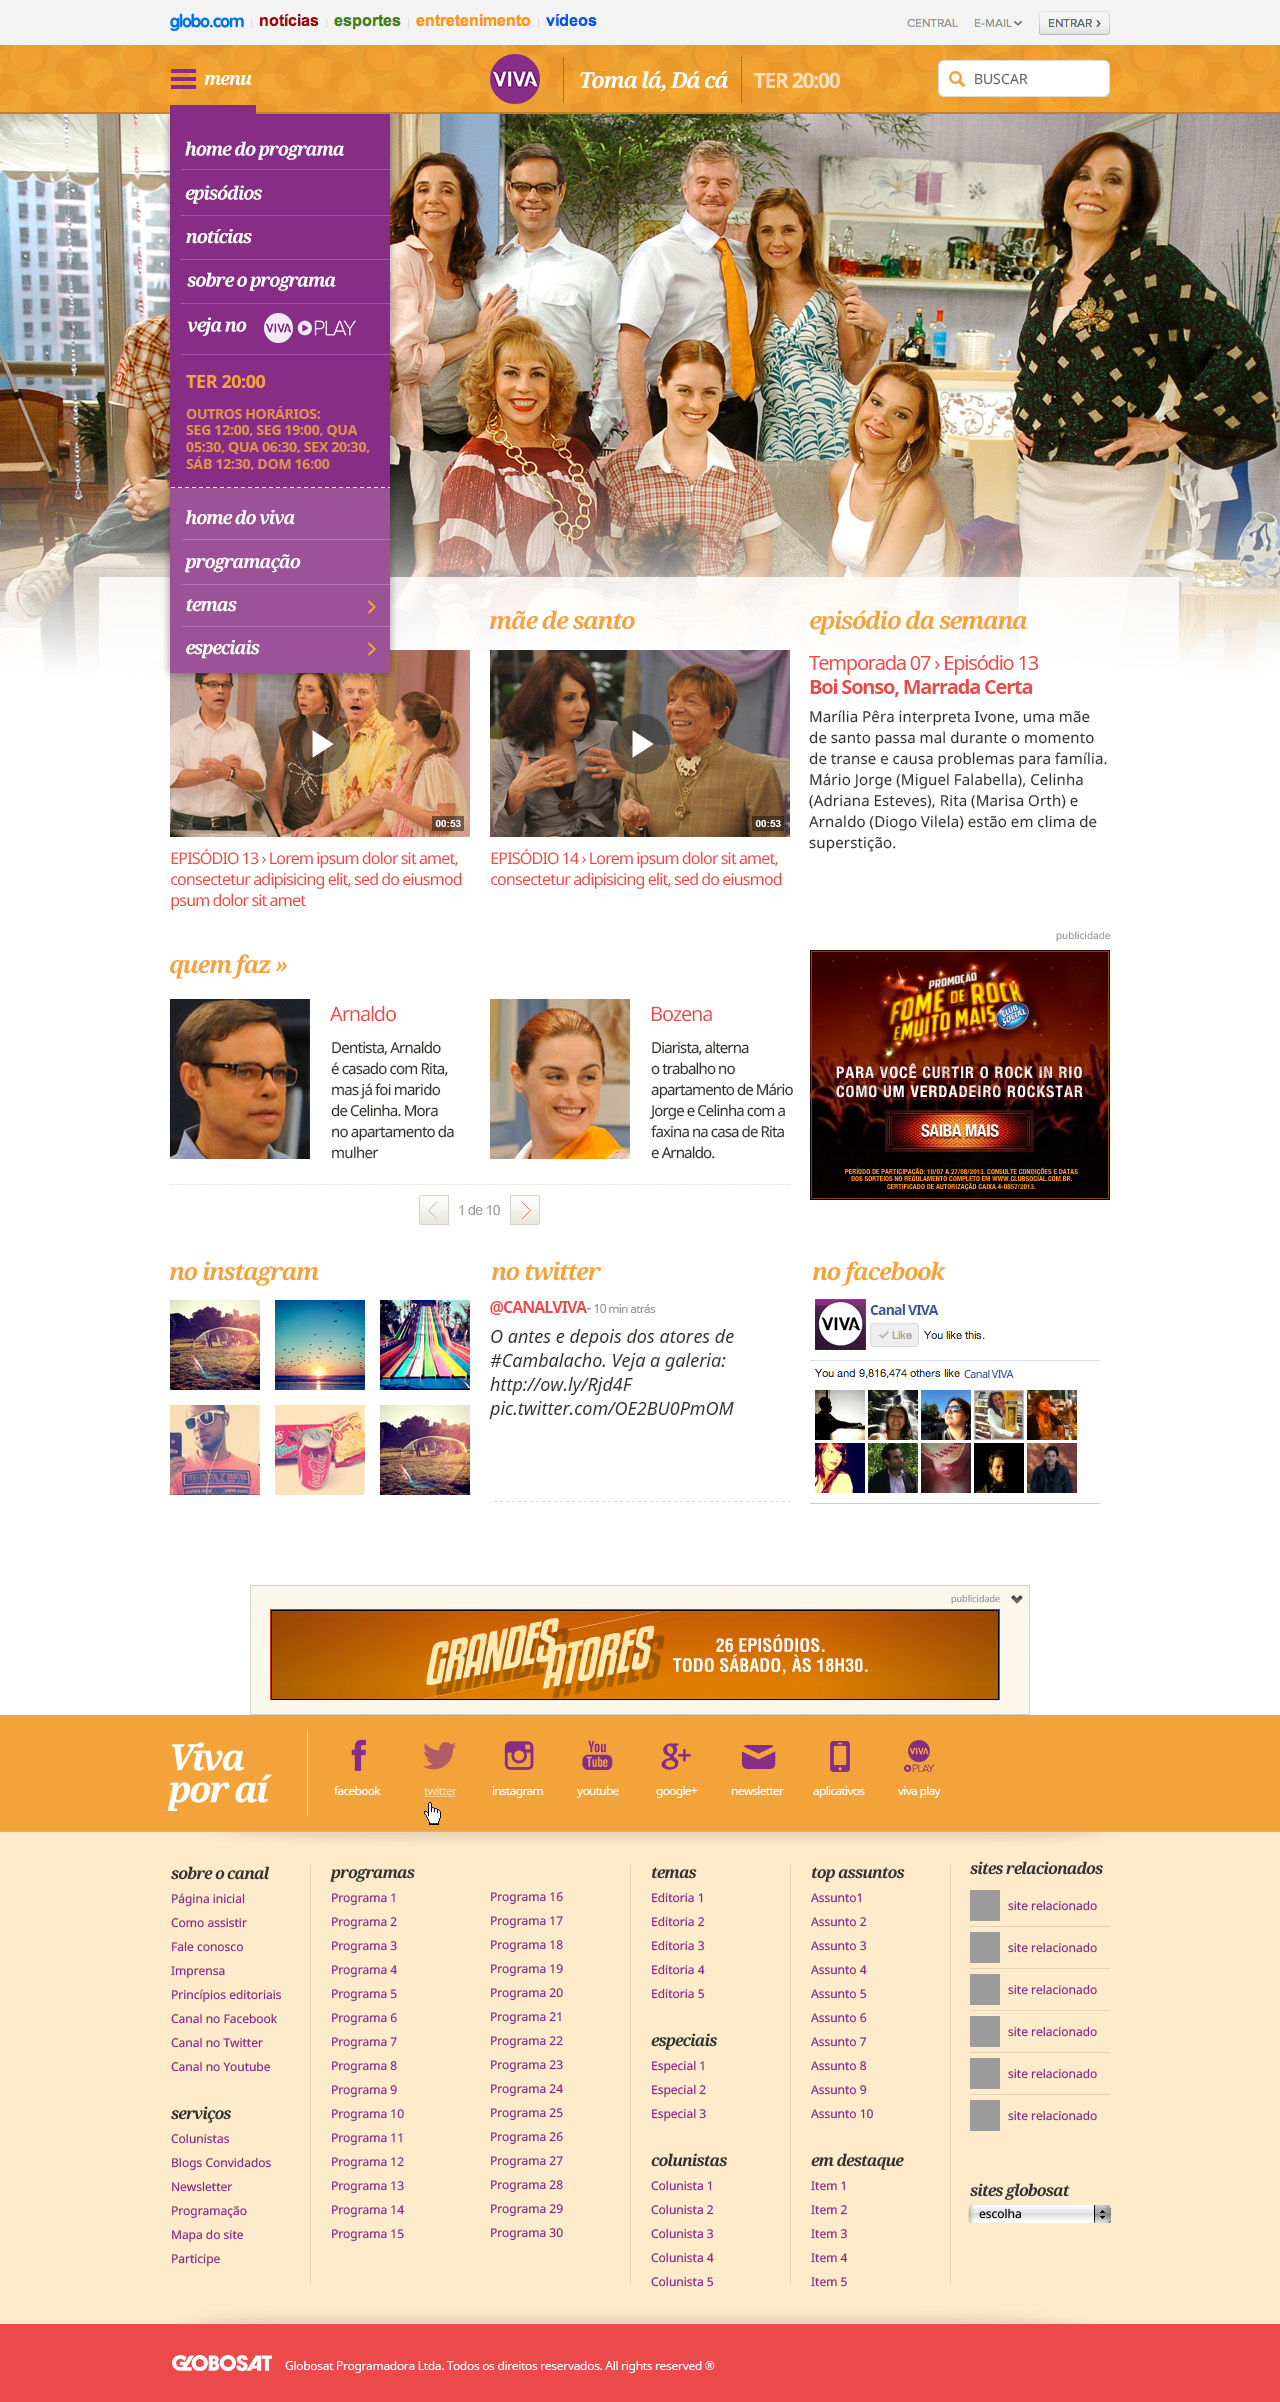
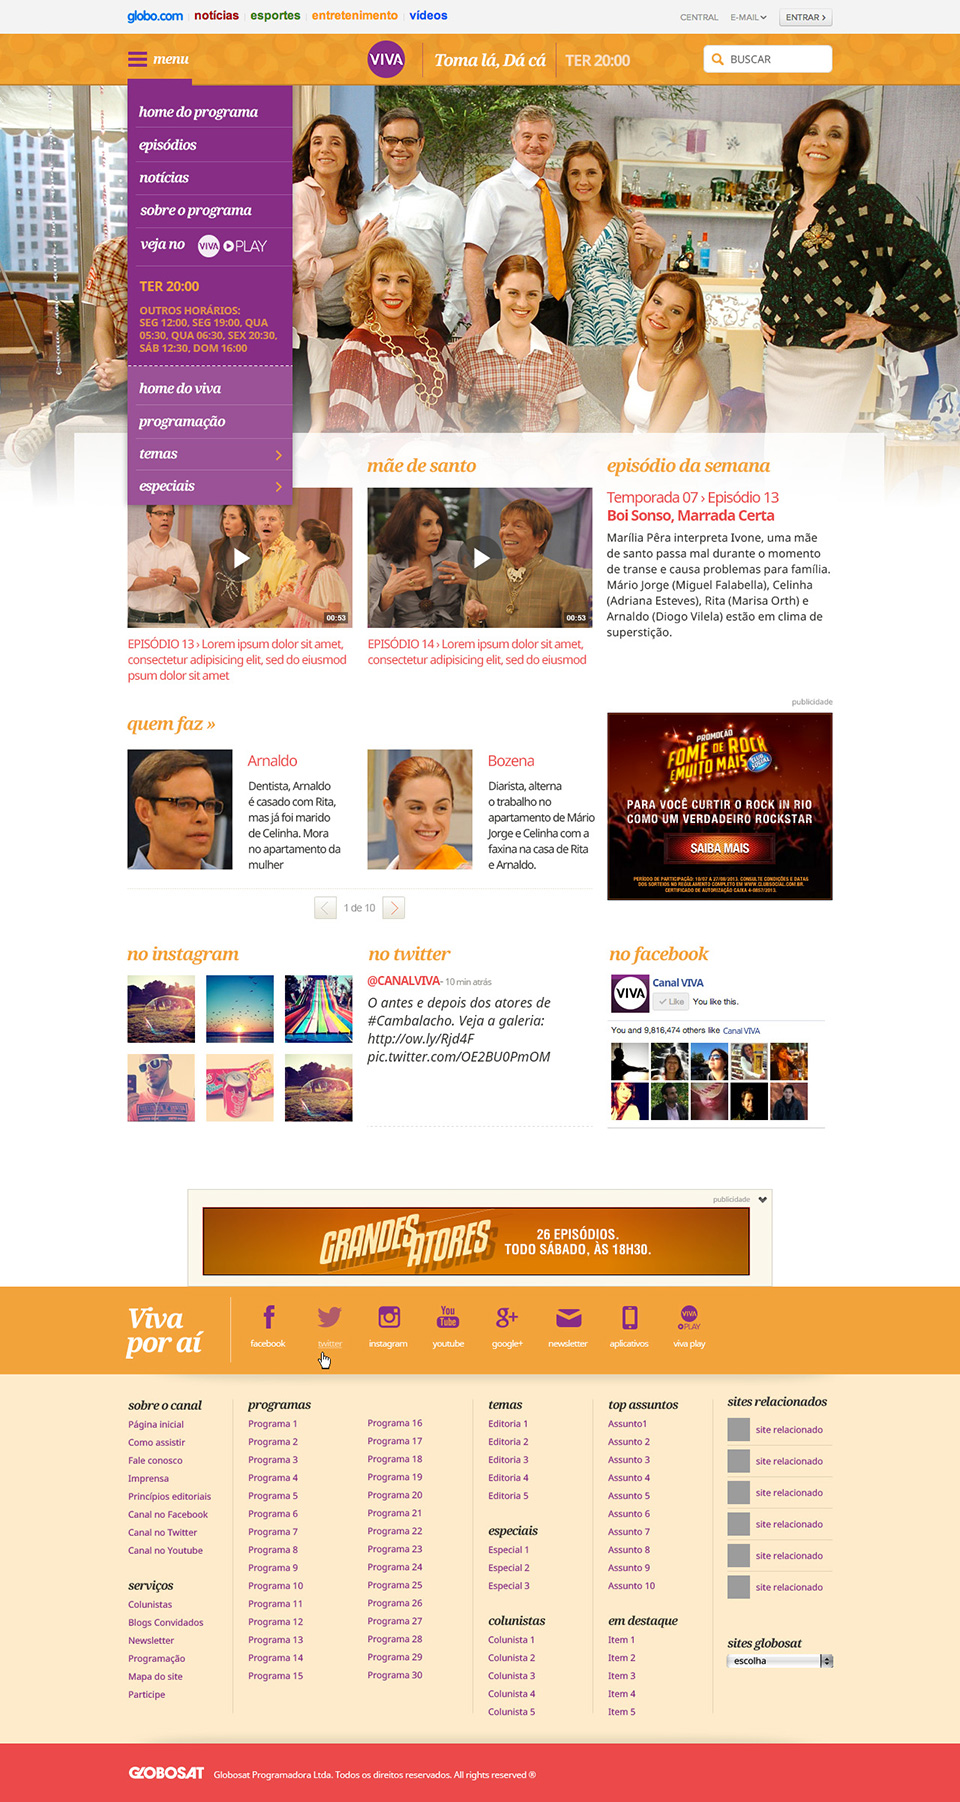
atualizacao do thumb do viva

diff --git a/app/index.html b/app/index.html
@@ -182,7 +182,7 @@
         <div class="lightCon"> <span class="hoverBox"> <span class="smallIcon"> <a id="portfolio1" rel="lightbox-demo" href="images/portfolio/big/dnapharma.png" title="Site responsivo em HTML5 da farmácia de manipulação DNAPHARMA" class="zoom lb lb_warsaw1"><i class="fa fa-search fa-2x"></i></a> <a href="http://www.clicksoft.com.br/dnapharma/" title="Link do Projeto" target="_blank" class="linKed"><i class="fa fa-link fa-2x"></i></i></a> </span> </span> <img src="images/portfolio/thumb/dnapharma-thumb.png" alt=""  > </div>
       </li>
       <li class="sites col-xs-6 col-sm-4 col-md-3 col-lg-3">
-        <div class="lightCon"> <span class="hoverBox"> <span class="smallIcon"> <a rel="lightbox-demo" href="images/portfolio/big/viva.png" title="Hotsite Grandes atores e atualizações diversas" class="zoom lb lb_warsaw1"><i class="fa fa-search fa-2x"></i></a> <a href="http://www.canalviva.com.br" title="Link do Projeto" target="_blank" class="linKed"><i class="fa fa-link fa-2x"></i></i></a> </span> </span> <img src="images/portfolio/thumb/viva-thumb.png" alt="" > </div>
+        <div class="lightCon"> <span class="hoverBox"> <span class="smallIcon"> <a rel="lightbox-demo" href="images/portfolio/big/home-viva-resp.jpg" title="Hotsite Grandes atores e atualizações diversas" class="zoom lb lb_warsaw1"><i class="fa fa-search fa-2x"></i></a> <a href="http://www.canalviva.com.br" title="Link do Projeto" target="_blank" class="linKed"><i class="fa fa-link fa-2x"></i></i></a> </span> </span> <img src="images/portfolio/thumb/viva-thumb.png" alt="" > </div>
       </li>
       <li class="sites col-xs-6 col-sm-4 col-md-3 col-lg-3">
         <div class="lightCon"> <span class="hoverBox"> <span class="smallIcon"> <a rel="lightbox-demo" href="images/portfolio/big/soulfit.png" title="Site responsivo da empresa SoulFit Consultoria" class="zoom lb lb_warsaw1"><i class="fa fa-search fa-2x"></i></a> <a href="http://www.soulfitconsultoria.com.br/" title="Link do Projeto" target="_blank" class="linKed"><i class="fa fa-link fa-2x"></i></i></a> </span> </span> <img src="images/portfolio/thumb/soulfit-thumb.png" alt="" > </div>
